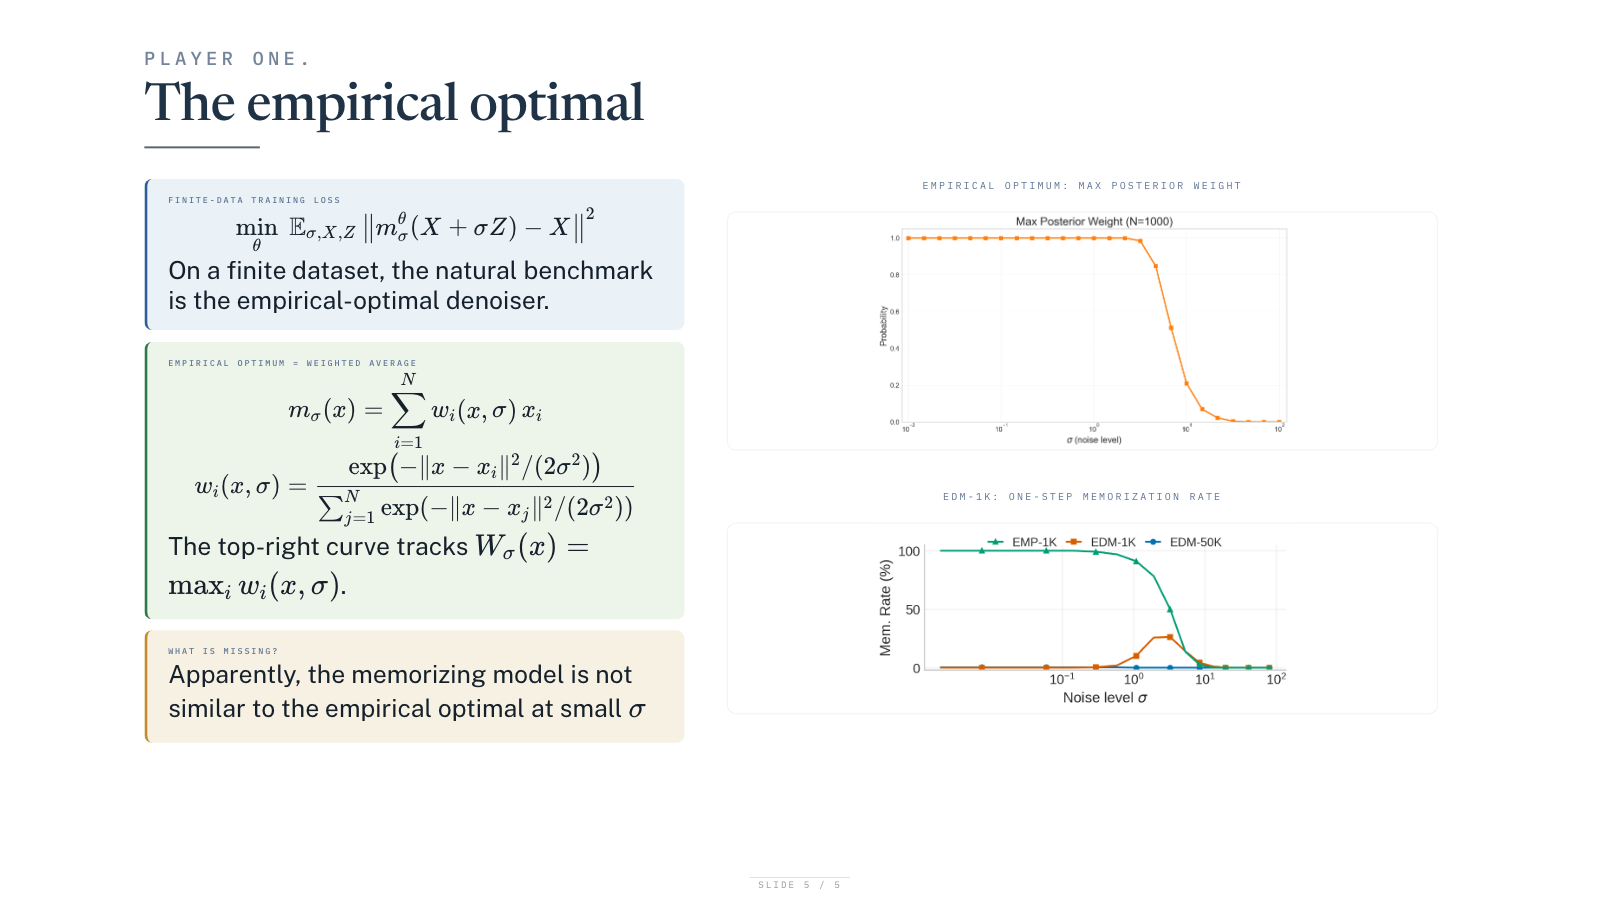
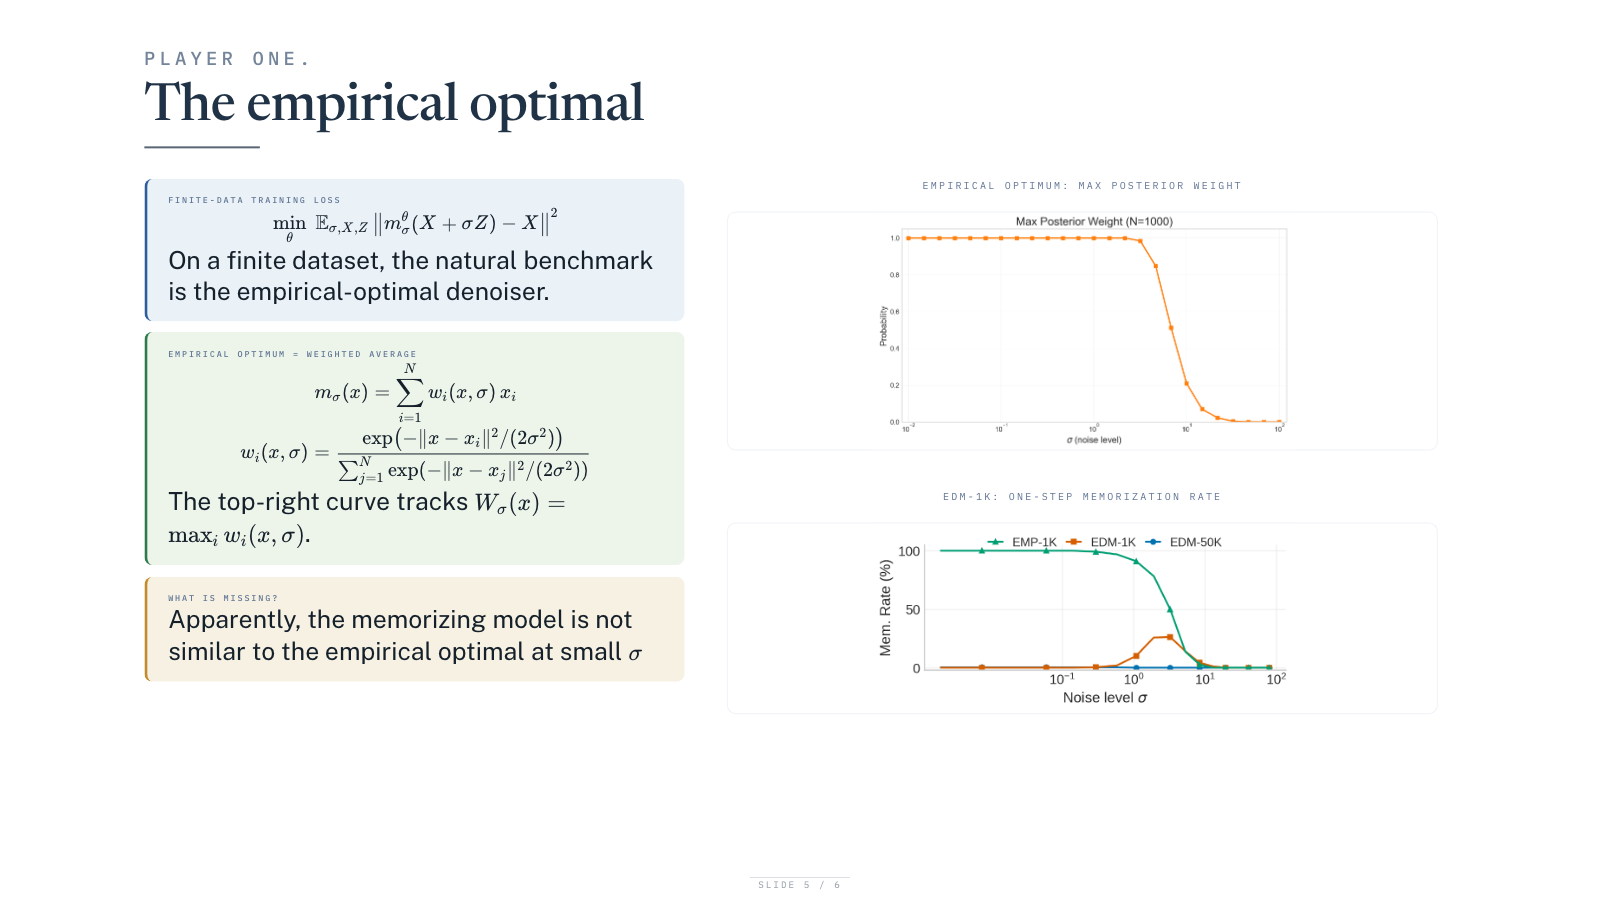
Fix math rendering on copied slides

Changed region(s): [[0.0625, 0.4044, 0.4375, 0.84], [0.0938, 0.2178, 0.4062, 0.3422], [0.0938, 0.3733, 0.25, 0.4044]]

diff --git a/shared/deck.css b/shared/deck.css
@@ -122,6 +122,10 @@ body.modular-slide {
   color: var(--gold);
 }
 
+.katex {
+  font-size: 0.96em;
+}
+
 body.has-custom-nav .reveal .slide-number {
   display: none !important;
 }
